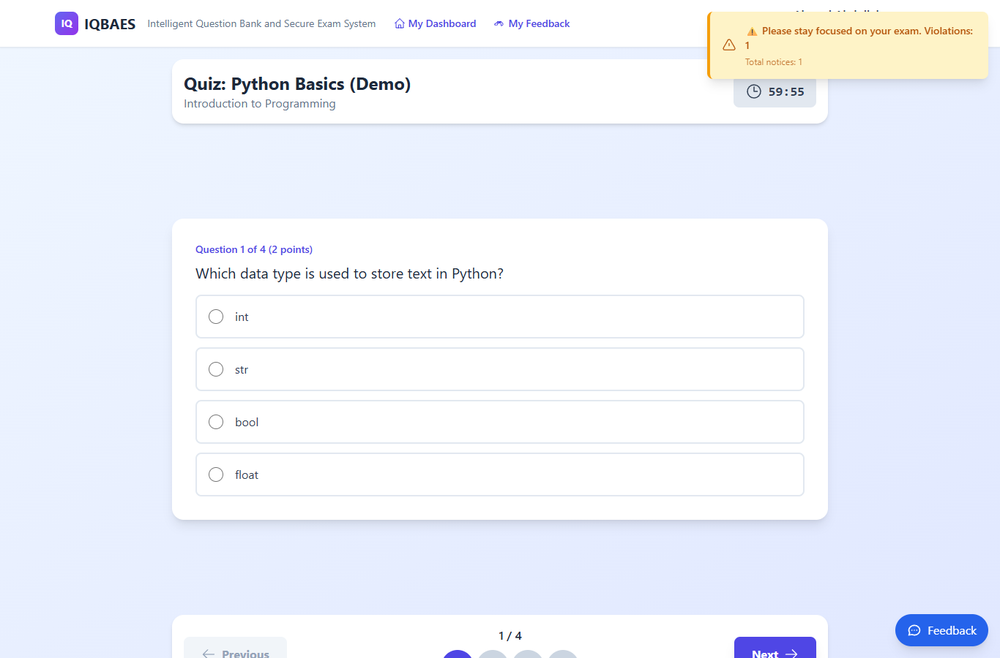
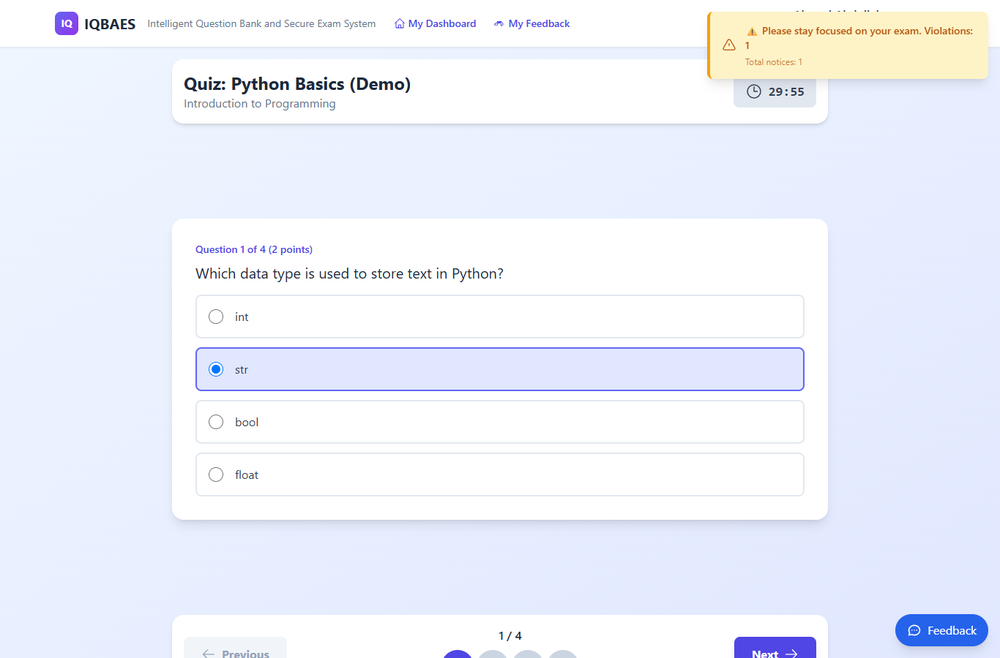
Retake the alarm and incidents screens after the bug fixes, add a Security side section

Changed region(s): [[0.186, 0.5167, 0.806, 0.6079]]

diff --git a/README.md b/README.md
@@ -1,6 +1,6 @@
 # IQBAES
 
-**Intelligent Question Bank and Secure Exam System.** My final year project: an online exam platform with a question bank, AI-made questions, grading tools and a built-in anti-cheat watcher.
+**Intelligent Question Bank and Secure Exam System.** My final year project: an online exam platform that mixes two things I enjoy, **AI** (it drafts exam questions) and **cybersecurity** (it watches for cheating and for people poking at the login). It has a question bank, grading tools, an anti-cheat watcher and a security log.
 
 🏆 **Top 4 Best Project at ICT Got Talent 5**, organized by the Faculty of Computing and Multimedia, UPTM. Super happy about this one!
 
@@ -30,6 +30,15 @@ Marking exams by hand is slow, and online exams make it easy to cheat (open anot
 - **Live monitoring.** Lecturers and admins watch exam sessions and violations as they happen (Socket.IO).
 - **Retake management** and **feedback** from users to admins.
 - **Installable** as an app on a phone (PWA).
+
+## Security side
+
+Security is a big part of this project, not an add-on:
+
+- **Anti-cheat for students**: tab switching, copy, paste, right-click and blocked shortcuts are caught and reported to the server, and a student with many violations is auto-flagged.
+- **Security log for admins**: failed logins (including odd, injection-style usernames), violations and admin actions, with priority, IP address and time.
+- **Hardened API**: JWT login, bcrypt password hashing, Helmet security headers, rate limiting (50 login attempts per 15 minutes), input validation, and role checks on the server.
+- **Found and fixed while testing:** a login request with a malformed body used to crash with a server error, and now it is rejected cleanly.
 
 ## Screens
 
